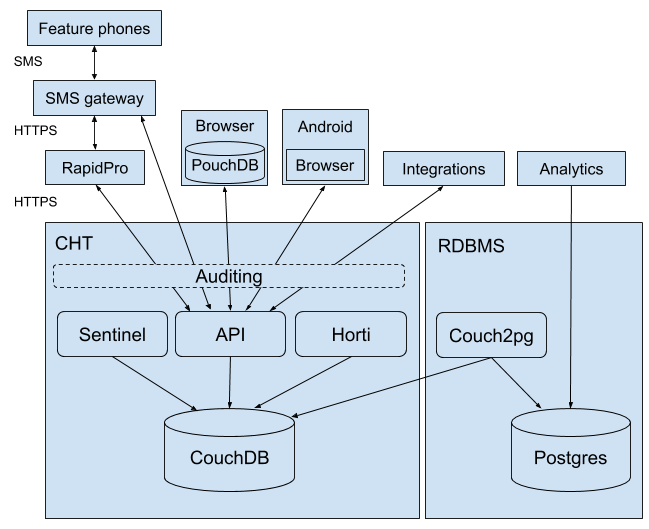
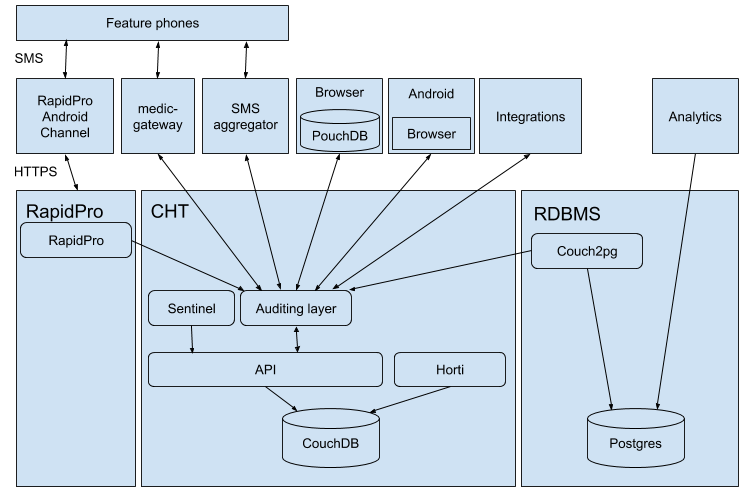
deploy: medic/cht-docs@6ed1596da95ddfdf576bfa7594c00cd9609d8c57

diff --git a/core/overview/architecture/index.html b/core/overview/architecture/index.html
@@ -1,4 +1,4 @@
-<!doctype html><html lang=en class=no-js><head><meta charset=utf-8><meta name=viewport content="width=device-width,initial-scale=1,shrink-to-fit=no"><meta name=generator content="Hugo 0.71.1"><meta name=ROBOTS content="INDEX, FOLLOW"><link rel="shortcut icon" href=/favicons/favicon.ico><link rel=apple-touch-icon href=/favicons/apple-touch-icon-180x180.png sizes=180x180><link rel=icon type=image/png href=/favicons/favicon-16x16.png sizes=16x16><link rel=icon type=image/png href=/favicons/favicon-32x32.png sizes=32x32><link rel=icon type=image/png href=/favicons/android-36x36.png sizes=36x36><link rel=icon type=image/png href=/favicons/android-48x48.png sizes=48x48><link rel=icon type=image/png href=/favicons/android-72x72.png sizes=72x72><link rel=icon type=image/png href=/favicons/android-96x96.png sizes=96x96><link rel=icon type=image/png href=/favicons/android-144x144.png sizes=144x144><link rel=icon type=image/png href=/favicons/android-192x192.png sizes=192x192><title>Architecture of CHT Instances | Community Health Toolkit</title><meta property="og:title" content="Architecture of CHT Instances"><meta property="og:description" content="The different pieces of a CHT project, how they interact, and what they're used for"><meta property="og:type" content="article"><meta property="og:url" content="https://docs.communityhealthtoolkit.org/core/overview/architecture/"><meta property="article:modified_time" content="2020-06-04T16:16:18+12:00"><meta property="og:site_name" content="Community Health Toolkit"><meta itemprop=name content="Architecture of CHT Instances"><meta itemprop=description content="The different pieces of a CHT project, how they interact, and what they're used for"><meta itemprop=dateModified content="2020-06-04T16:16:18+12:00"><meta itemprop=wordCount content="379"><meta itemprop=keywords content><meta name=twitter:card content="summary"><meta name=twitter:title content="Architecture of CHT Instances"><meta name=twitter:description content="The different pieces of a CHT project, how they interact, and what they're used for"><script type=application/javascript>var doNotTrack=false;if(!doNotTrack){window.ga=window.ga||function(){(ga.q=ga.q||[]).push(arguments)};ga.l=+new Date;ga('create','UA-168418637-1','auto');ga('send','pageview');}</script><script async src=https://www.google-analytics.com/analytics.js></script><link rel=preload href=/scss/main.min.019e95ef9d91f48236a559a9cd9a4bb1b7e840dc2b42a7972414abd4967d4938.css as=style><link href=/scss/main.min.019e95ef9d91f48236a559a9cd9a4bb1b7e840dc2b42a7972414abd4967d4938.css rel=stylesheet integrity><script src=https://code.jquery.com/jquery-3.3.1.min.js integrity="sha256-FgpCb/KJQlLNfOu91ta32o/NMZxltwRo8QtmkMRdAu8=" crossorigin=anonymous></script></head><body class=td-page><header><nav class="js-navbar-scroll navbar navbar-expand navbar-dark flex-column flex-md-row td-navbar"><a class=navbar-brand href=/><span class=navbar-logo></span><span class="text-uppercase font-weight-bold">Community Health Toolkit</span></a><div class="td-navbar-nav-scroll ml-md-auto" id=main_navbar><ul class="navbar-nav mt-2 mt-lg-0"><li class="nav-item mr-4 mb-2 mb-lg-0"><a class="nav-link active" href=/><span class=active>Documentation</span></a></li></ul></div><div class="navbar-nav d-none d-lg-block"><input type=search class="form-control td-search-input" placeholder="&#xf002 Search this site…" aria-label="Search this site…" autocomplete=off></div></nav></header><div class="container-fluid td-outer"><div class=td-main><div class="row flex-xl-nowrap"><div class="col-12 col-md-3 col-xl-2 td-sidebar d-print-none"><div id=td-sidebar-menu class=td-sidebar__inner><form class="td-sidebar__search d-flex align-items-center"><input type=search class="form-control td-search-input" placeholder="&#xf002 Search this site…" aria-label="Search this site…" autocomplete=off>
+<!doctype html><html lang=en class=no-js><head><meta charset=utf-8><meta name=viewport content="width=device-width,initial-scale=1,shrink-to-fit=no"><meta name=generator content="Hugo 0.71.1"><meta name=ROBOTS content="INDEX, FOLLOW"><link rel="shortcut icon" href=/favicons/favicon.ico><link rel=apple-touch-icon href=/favicons/apple-touch-icon-180x180.png sizes=180x180><link rel=icon type=image/png href=/favicons/favicon-16x16.png sizes=16x16><link rel=icon type=image/png href=/favicons/favicon-32x32.png sizes=32x32><link rel=icon type=image/png href=/favicons/android-36x36.png sizes=36x36><link rel=icon type=image/png href=/favicons/android-48x48.png sizes=48x48><link rel=icon type=image/png href=/favicons/android-72x72.png sizes=72x72><link rel=icon type=image/png href=/favicons/android-96x96.png sizes=96x96><link rel=icon type=image/png href=/favicons/android-144x144.png sizes=144x144><link rel=icon type=image/png href=/favicons/android-192x192.png sizes=192x192><title>Architecture of CHT Instances | Community Health Toolkit</title><meta property="og:title" content="Architecture of CHT Instances"><meta property="og:description" content="The different pieces of a CHT project, how they interact, and what they're used for"><meta property="og:type" content="article"><meta property="og:url" content="https://docs.communityhealthtoolkit.org/core/overview/architecture/"><meta property="article:modified_time" content="2020-06-15T12:09:56+12:00"><meta property="og:site_name" content="Community Health Toolkit"><meta itemprop=name content="Architecture of CHT Instances"><meta itemprop=description content="The different pieces of a CHT project, how they interact, and what they're used for"><meta itemprop=dateModified content="2020-06-15T12:09:56+12:00"><meta itemprop=wordCount content="379"><meta itemprop=keywords content><meta name=twitter:card content="summary"><meta name=twitter:title content="Architecture of CHT Instances"><meta name=twitter:description content="The different pieces of a CHT project, how they interact, and what they're used for"><script type=application/javascript>var doNotTrack=false;if(!doNotTrack){window.ga=window.ga||function(){(ga.q=ga.q||[]).push(arguments)};ga.l=+new Date;ga('create','UA-168418637-1','auto');ga('send','pageview');}</script><script async src=https://www.google-analytics.com/analytics.js></script><link rel=preload href=/scss/main.min.019e95ef9d91f48236a559a9cd9a4bb1b7e840dc2b42a7972414abd4967d4938.css as=style><link href=/scss/main.min.019e95ef9d91f48236a559a9cd9a4bb1b7e840dc2b42a7972414abd4967d4938.css rel=stylesheet integrity><script src=https://code.jquery.com/jquery-3.3.1.min.js integrity="sha256-FgpCb/KJQlLNfOu91ta32o/NMZxltwRo8QtmkMRdAu8=" crossorigin=anonymous></script></head><body class=td-page><header><nav class="js-navbar-scroll navbar navbar-expand navbar-dark flex-column flex-md-row td-navbar"><a class=navbar-brand href=/><span class=navbar-logo></span><span class="text-uppercase font-weight-bold">Community Health Toolkit</span></a><div class="td-navbar-nav-scroll ml-md-auto" id=main_navbar><ul class="navbar-nav mt-2 mt-lg-0"><li class="nav-item mr-4 mb-2 mb-lg-0"><a class="nav-link active" href=/><span class=active>Documentation</span></a></li></ul></div><div class="navbar-nav d-none d-lg-block"><input type=search class="form-control td-search-input" placeholder="&#xf002 Search this site…" aria-label="Search this site…" autocomplete=off></div></nav></header><div class="container-fluid td-outer"><div class=td-main><div class="row flex-xl-nowrap"><div class="col-12 col-md-3 col-xl-2 td-sidebar d-print-none"><div id=td-sidebar-menu class=td-sidebar__inner><form class="td-sidebar__search d-flex align-items-center"><input type=search class="form-control td-search-input" placeholder="&#xf002 Search this site…" aria-label="Search this site…" autocomplete=off>
 <button class="btn btn-link td-sidebar__toggle d-md-none p-0 ml-3 fas fa-bars" type=button data-toggle=collapse data-target=#td-section-nav aria-controls=td-docs-nav aria-expanded=false aria-label="Toggle section navigation"></button></form><nav class="collapse td-sidebar-nav pt-2 pl-4" id=td-section-nav><ul class="td-sidebar-nav__section pr-md-3"><li class="collapse show"><a class="td-sidebar-link td-sidebar-link__page" id=m-why-the-cht href=/why-the-cht/>Why the CHT?</a><ul class="td-sidebar-nav__section pr-md-3"><li class=td-sidebar-nav__section-title><a href=/apps/ class="align-left pl-0 pr-2 collapsed td-sidebar-link td-sidebar-link__section">CHT Applications</a></li><ul><li class=collapse id=apps><ul class="td-sidebar-nav__section pr-md-3"><li class=td-sidebar-nav__section-title><a href=/apps/concepts/ class="align-left pl-0 pr-2 collapsed td-sidebar-link td-sidebar-link__section">Concepts</a></li><ul><li class=collapse id=appsconcepts><a class="td-sidebar-link td-sidebar-link__page" id=m-appsconceptsaccess href=/apps/concepts/access/>Access</a>
 <a class="td-sidebar-link td-sidebar-link__page" id=m-appsconceptsnavigation href=/apps/concepts/navigation/>Navigation</a>
 <a class="td-sidebar-link td-sidebar-link__page" id=m-appsconceptsforms href=/apps/concepts/forms/>Forms</a>
@@ -74,7 +74,7 @@
 <a class="td-sidebar-link td-sidebar-link__page" id=m-designpersonasapp-builder href=/design/personas/app-builder/>App Builders</a><ul class="td-sidebar-nav__section pr-md-3"><li class=td-sidebar-nav__section-title><a href=/design/personas/partners/ class="align-left pl-0 pr-2 collapsed td-sidebar-link td-sidebar-link__section">Partners</a></li><ul><li class=collapse id=designpersonaspartners><a class="td-sidebar-link td-sidebar-link__page" id=m-designpersonaspartnersimplementers href=/design/personas/partners/implementers/>Implementers</a>
 <a class="td-sidebar-link td-sidebar-link__page" id=m-designpersonaspartnerslocal-governments href=/design/personas/partners/local-governments/>Local Gov</a>
 <a class="td-sidebar-link td-sidebar-link__page" id=m-designpersonaspartnersnational-governments href=/design/personas/partners/national-governments/>National Gov</a></li></ul></ul></li></ul></ul><ul class="td-sidebar-nav__section pr-md-3"><li class=td-sidebar-nav__section-title><a href=/design/apps/ class="align-left pl-0 pr-2 collapsed td-sidebar-link td-sidebar-link__section">App Development</a></li><ul><li class=collapse id=designapps></li></ul></ul><ul class="td-sidebar-nav__section pr-md-3"><li class=td-sidebar-nav__section-title><a href=/design/core/ class="align-left pl-0 pr-2 collapsed td-sidebar-link td-sidebar-link__section">Core Development</a></li><ul><li class=collapse id=designcore></li></ul></ul><ul class="td-sidebar-nav__section pr-md-3"><li class=td-sidebar-nav__section-title><a href=/design/icons/ class="align-left pl-0 pr-2 collapsed td-sidebar-link td-sidebar-link__section">Icon Library</a></li><ul><li class=collapse id=designicons><ul class="td-sidebar-nav__section pr-md-3"><li class=td-sidebar-nav__section-title><a href=/design/icons/forms_tasks_targets/ class="align-left pl-0 pr-2 collapsed td-sidebar-link td-sidebar-link__section">Forms, Tasks, Targets</a></li><ul><li class=collapse id=designiconsforms_tasks_targets></li></ul></ul><ul class="td-sidebar-nav__section pr-md-3"><li class=td-sidebar-nav__section-title><a href=/design/icons/people_and_places/ class="align-left pl-0 pr-2 collapsed td-sidebar-link td-sidebar-link__section">People and Places</a></li><ul><li class=collapse id=designiconspeople_and_places></li></ul></ul></li></ul></ul></li></ul></ul><a class="td-sidebar-link td-sidebar-link__page" id=m-docs-style-guide href=/docs-style-guide/>Style Guide for Docs</a></li></ul></nav></div></div><div class="d-none d-xl-block col-xl-2 td-toc d-print-none"><div class="td-page-meta ml-2 pb-1 pt-2 mb-0"><a href=https://github.com/medic/cht-docs/edit/master/content/en/core/overview/architecture.md target=_blank><i class="fa fa-edit fa-fw"></i>Edit this page</a>
-<a href="https://github.com/medic/cht-docs/issues/new?title=Improve+%27Architecture%20of%20CHT%20Instances%27&labels=enhancement&body=Page:+/core/overview/architecture/%0aVersion:+2020-06-04%2016:16:18%20+1200%20+1200%0a---" target=_blank><i class="fab fa-github fa-fw"></i>Create documentation issue</a>
+<a href="https://github.com/medic/cht-docs/issues/new?title=Improve+%27Architecture%20of%20CHT%20Instances%27&labels=enhancement&body=Page:+/core/overview/architecture/%0aVersion:+2020-06-15%2012:09:56%20+1200%20+1200%0a---" target=_blank><i class="fab fa-github fa-fw"></i>Create documentation issue</a>
 <a href=https://github.com/medic/cht-core/issues/new target=_blank><i class="fas fa-tasks fa-fw"></i>Create project issue</a></div><nav id=TableOfContents><ul><li><a href=#overview>Overview</a></li><li><a href=#server-side>Server side</a><ul><li><a href=#couchdbhttpcouchdbapacheorg><a href=http://couchdb.apache.org>CouchDB</a></a></li><li><a href=#apihttpsgithubcommedicmedictreemasterapi><a href=https://github.com/medic/medic/tree/master/api>api</a></a></li><li><a href=#sentinelhttpsgithubcommedicmedictreemastersentinel><a href=https://github.com/medic/medic/tree/master/sentinel>sentinel</a></a></li><li><a href=#postgresqlhttpswwwpostgresqlorg><a href=https://www.postgresql.org>PostgreSQL</a></a></li></ul></li><li><a href=#client-side>Client side</a><ul><li><a href=#cht-corehttpsgithubcommediccht-core><a href=https://github.com/medic/cht-core>cht-core</a></a></li><li><a href=#medic-androidhttpsgithubcommedicmedic-android><a href=https://github.com/medic/medic-android>medic-android</a></a></li></ul></li><li><a href=#other-applications>Other applications</a><ul><li><a href=#medic-gatewayhttpsgithubcommedicmedic-gateway><a href=https://github.com/medic/medic-gateway>medic-gateway</a></a></li><li><a href=#medic-collecthttpsgithubcommedicmedic-collect><a href=https://github.com/medic/medic-collect>medic-collect</a></a></li><li><a href=#medic-confhttpsgithubcommedicmedic-conf><a href=https://github.com/medic/medic-conf>medic-conf</a></a></li></ul></li></ul></nav></div><main class="col-12 col-md-9 col-xl-8 pl-md-5" role=main><nav aria-label=breadcrumb class="d-none d-md-block d-print-none"><ol class="breadcrumb spb-1"><li class=breadcrumb-item><a href=https://docs.communityhealthtoolkit.org/core/>CHT Core Framework</a></li><li class=breadcrumb-item><a href=https://docs.communityhealthtoolkit.org/core/overview/>Overview</a></li><li class="breadcrumb-item active" aria-current=page><a href=https://docs.communityhealthtoolkit.org/core/overview/architecture/>Architecture</a></li></ol></nav><div class=td-content><h1>Architecture of CHT Instances</h1><div class=lead>The different pieces of a CHT project, how they interact, and what they&rsquo;re used for</div><h2 id=overview>Overview</h2><p><img src=../../img/architecture.png alt="Architecture of a CHT project"></p><h2 id=server-side>Server side</h2><h3 id=couchdbhttpcouchdbapacheorg><a href=http://couchdb.apache.org>CouchDB</a></h3><p>A free and open source NoSQL database we use to store all our data, configuration, and even the application code. CouchDB is really good at replication which is the process of sending the data to another database and back again.</p><h3 id=apihttpsgithubcommedicmedictreemasterapi><a href=https://github.com/medic/medic/tree/master/api>api</a></h3><p>A NodeJS service which runs on the server as a wrapper around CouchDB. It provides some security, auditing, and integration APIs. It also includes a custom implementation of filtered replication to allow it to support more concurrent users.</p><h3 id=sentinelhttpsgithubcommedicmedictreemastersentinel><a href=https://github.com/medic/medic/tree/master/sentinel>sentinel</a></h3><p>Another NodeJS service running on the server, sentinel performs actions called transitions every time a document in CouchDB is added or modified. Some examples are validations, generating scheduled messages, automatic responses, creating patients, and sending alerts.</p><h3 id=postgresqlhttpswwwpostgresqlorg><a href=https://www.postgresql.org>PostgreSQL</a></h3><p>A free and open source SQL database that we use for analytics queries for display in tools like klipfolio. We created a library called <a href=https://github.com/medic/couch2pg>couch2pg</a> to replicate data from CouchDB into PostgreSQL.</p><h2 id=client-side>Client side</h2><h3 id=cht-corehttpsgithubcommediccht-core><a href=https://github.com/medic/cht-core>cht-core</a></h3><p>This is the application that most users interact with. It&rsquo;s an <a href=https://angularjs.org>AngularJS</a> single page responsive web application.</p><p>We use an offline first strategy which means the data is stored on the client and all pages can load immediately regardless of whether you have a fast connection, slow connection, or no connection at all. The data is stored in <a href=https://pouchdb.com>PouchDB</a> which replicates changes back and forth in the background with the server CouchDB.</p><p>We use <a href=https://enketo.org>Enketo</a> to render configured xforms and help with styling and dynamic elements such as show/hide and validation rules.</p><p>We use the <a href=https://github.com/C2FO/nools>nools</a> rules engine to compute the upcoming tasks and monthly targets of the users.</p><h3 id=medic-androidhttpsgithubcommedicmedic-android><a href=https://github.com/medic/medic-android>medic-android</a></h3><p>The application works in the browser or wrapped in the medic-android app which allows for project branding, sets the project URL, and hides browser elements like the URL bar.</p><h2 id=other-applications>Other applications</h2><h3 id=medic-gatewayhttpsgithubcommedicmedic-gateway><a href=https://github.com/medic/medic-gateway>medic-gateway</a></h3><p>Medic Gateway is an android app for sending and receiving SMS messages. Each SMS enabled project has one gateway running. It polls an api endpoint to write incoming SMS into the CouchDB and retrieve outgoing SMS to send.</p><h3 id=medic-collecthttpsgithubcommedicmedic-collect><a href=https://github.com/medic/medic-collect>medic-collect</a></h3><p>An android app based on <a href=https://opendatakit.org>Open Data Kit</a> to render xforms on the phone and send reports in to medic-gateway over SMS or directly to api over mobile data.</p><h3 id=medic-confhttpsgithubcommedicmedic-conf><a href=https://github.com/medic/medic-conf>medic-conf</a></h3><p>A command line utility for uploading configuration and bulk importing of records.</p><style>.feedback--answer{display:inline-block}.feedback--answer-no{margin-left:1em}.feedback--response{display:none;margin-top:1em}.feedback--response__visible{display:block}</style><h2 class=feedback--title>Feedback</h2><p class=feedback--question>Was this page helpful?</p><button class="feedback--answer feedback--answer-yes">Yes</button>
-<button class="feedback--answer feedback--answer-no">No</button><p class="feedback--response feedback--response-yes">Glad to hear it! Please <a href=https://github.com/medic/cht-docs/issues/new>tell us how we can improve</a>.</p><p class="feedback--response feedback--response-no">Sorry to hear that. Please <a href=https://github.com/medic/cht-docs/issues/new>tell us how we can improve</a>.</p><script>const yesButton=document.querySelector('.feedback--answer-yes');const noButton=document.querySelector('.feedback--answer-no');const yesResponse=document.querySelector('.feedback--response-yes');const noResponse=document.querySelector('.feedback--response-no');const disableButtons=()=>{yesButton.disabled=true;noButton.disabled=true;};const sendFeedback=(value)=>{if(typeof ga!=='function')return;const args={command:'send',hitType:'event',category:'Helpful',action:'click',label:window.location.pathname,value:value};ga(args.command,args.hitType,args.category,args.action,args.label,args.value);};yesButton.addEventListener('click',()=>{yesResponse.classList.add('feedback--response__visible');disableButtons();sendFeedback(1);});noButton.addEventListener('click',()=>{noResponse.classList.add('feedback--response__visible');disableButtons();sendFeedback(0);});</script><br><div class="text-muted mt-5 pt-3 border-top">Last modified 04.06.2020: <a href=https://github.com/medic/cht-docs/commit/178798daf6840bc5185f40c9fbda75ad33389c33>Updated core architecture (178798d)</a></div></div></main></div></div><footer class="bg-dark py-5 row d-print-none"><div class="container-fluid mx-sm-5"><div class=row><div class="col-6 col-sm-4 text-xs-center order-sm-2"></div><div class="col-6 col-sm-4 text-right text-xs-center order-sm-3"></div><div class="col-12 col-sm-4 text-center py-2 order-sm-2"><small class=text-white>&copy; 2020 CHT All Rights Reserved</small>
+<button class="feedback--answer feedback--answer-no">No</button><p class="feedback--response feedback--response-yes">Glad to hear it! Please <a href=https://github.com/medic/cht-docs/issues/new>tell us how we can improve</a>.</p><p class="feedback--response feedback--response-no">Sorry to hear that. Please <a href=https://github.com/medic/cht-docs/issues/new>tell us how we can improve</a>.</p><script>const yesButton=document.querySelector('.feedback--answer-yes');const noButton=document.querySelector('.feedback--answer-no');const yesResponse=document.querySelector('.feedback--response-yes');const noResponse=document.querySelector('.feedback--response-no');const disableButtons=()=>{yesButton.disabled=true;noButton.disabled=true;};const sendFeedback=(value)=>{if(typeof ga!=='function')return;const args={command:'send',hitType:'event',category:'Helpful',action:'click',label:window.location.pathname,value:value};ga(args.command,args.hitType,args.category,args.action,args.label,args.value);};yesButton.addEventListener('click',()=>{yesResponse.classList.add('feedback--response__visible');disableButtons();sendFeedback(1);});noButton.addEventListener('click',()=>{noResponse.classList.add('feedback--response__visible');disableButtons();sendFeedback(0);});</script><br><div class="text-muted mt-5 pt-3 border-top">Last modified 15.06.2020: <a href=https://github.com/medic/cht-docs/commit/1e4302bb890d0a13e7fd811c37fb28af5f768efb>PNGs work better apparently (1e4302b)</a></div></div></main></div></div><footer class="bg-dark py-5 row d-print-none"><div class="container-fluid mx-sm-5"><div class=row><div class="col-6 col-sm-4 text-xs-center order-sm-2"></div><div class="col-6 col-sm-4 text-right text-xs-center order-sm-3"></div><div class="col-12 col-sm-4 text-center py-2 order-sm-2"><small class=text-white>&copy; 2020 CHT All Rights Reserved</small>
 <small class=ml-1><a href="https://docs.google.com/document/d/1MaI1rgYMNyCZF2eEjBuvnBDoCYHDKlx4k_N5pkDiWu8/edit?usp=sharing" target=_blank>Privacy Policy</a></small></div></div></div></footer></div><script src=https://cdnjs.cloudflare.com/ajax/libs/popper.js/1.14.3/umd/popper.min.js integrity=sha384-ZMP7rVo3mIykV+2+9J3UJ46jBk0WLaUAdn689aCwoqbBJiSnjAK/l8WvCWPIPm49 crossorigin=anonymous></script><script src=https://stackpath.bootstrapcdn.com/bootstrap/4.1.3/js/bootstrap.min.js integrity=sha384-ChfqqxuZUCnJSK3+MXmPNIyE6ZbWh2IMqE241rYiqJxyMiZ6OW/JmZQ5stwEULTy crossorigin=anonymous></script><script src=/js/main.min.fe96fb3036eca951c7eb0789e66bdef1d3d7e75919b9ecf624883f34a0f4272e.js integrity="sha256-/pb7MDbsqVHH6weJ5mve8dPX51kZuez2JIg/NKD0Jy4=" crossorigin=anonymous></script></body></html>
